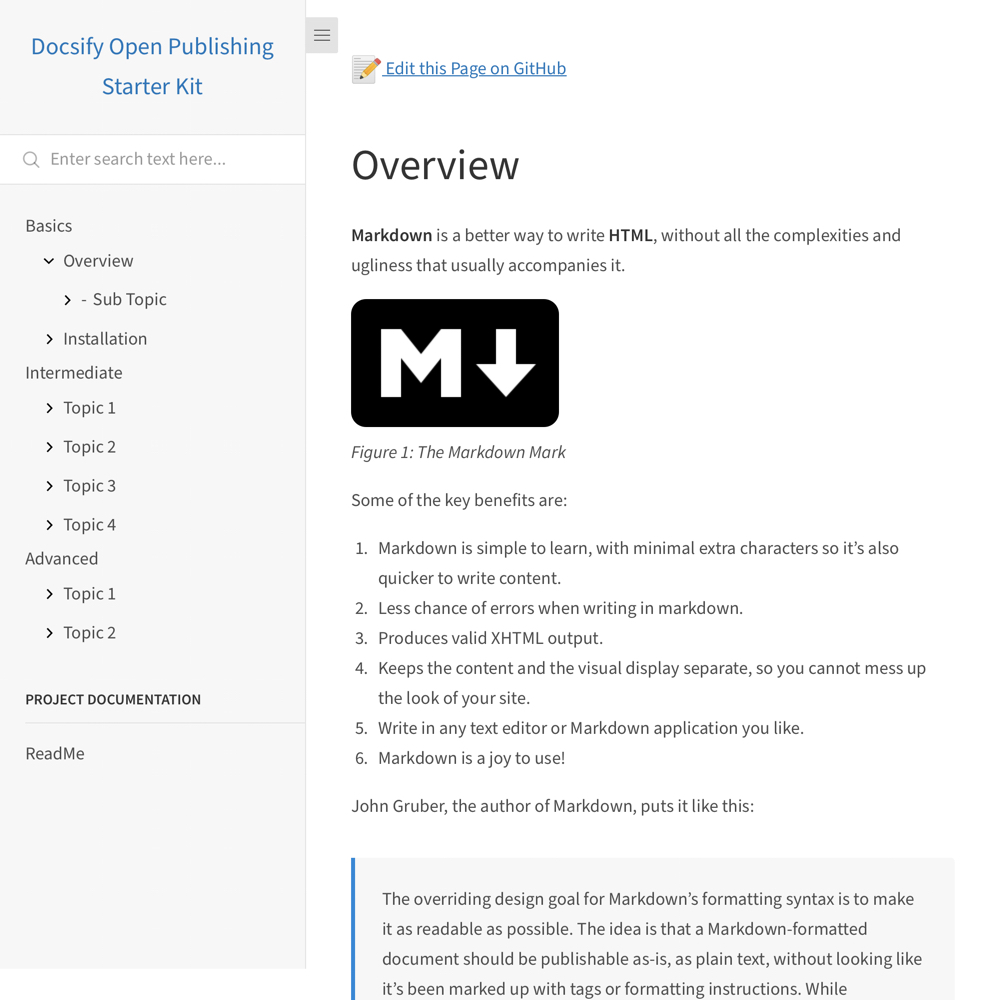
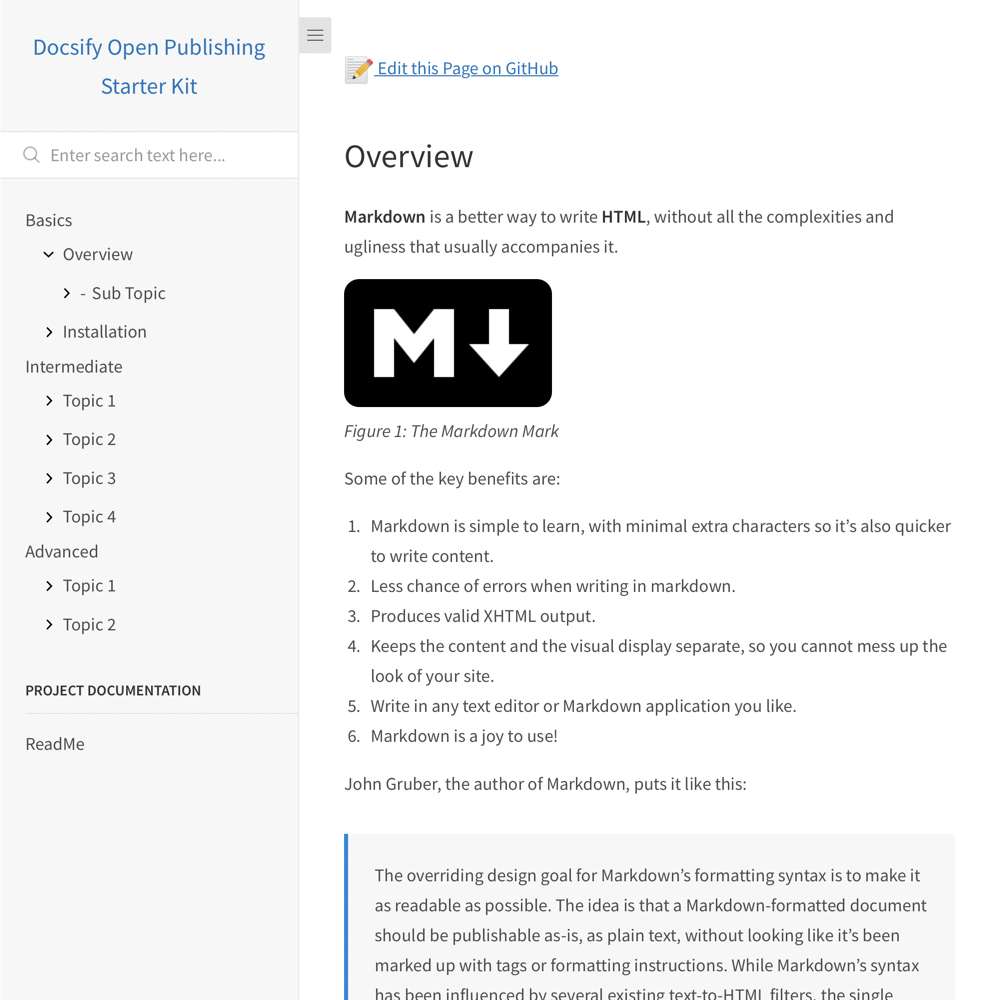
Style and source GitHub repo link updates.

diff --git a/docs/assets/css/theme-custom.css b/docs/assets/css/theme-custom.css
@@ -1,6 +1,18 @@
 :root {
     --base-font-family: "Source Sans Pro","Helvetica Neue",Arial,sans-serif;
-    --base-font-size                                  : 18px;
+    --base-font-size: 1.1rem;
+    --heading-h1-font-size: 1.85rem;
+    --heading-h2-font-size: 1.6rem;
+    --heading-h3-font-size: 1.4rem;
+    --heading-h4-font-size: 1.3rem;
+    --heading-h5-font-size: 1.2rem;
+    --heading-h6-font-size: 1.1rem;
+    --heading-h1-font-weight: 400;
+    --heading-h2-font-weight: 400;
+    --heading-h3-font-weight: 400;
+    --heading-h4-font-weight: 400;
+    --heading-h5-font-weight: 400;
+    --heading-h6-font-weight: 400;
     --link-color                                      : #0A75BD;
     --sidebar-name-color                              : #0A75BD;
     --sidebar-nav-link-color--active                  : #4D4D4D;

diff --git a/docs/index.html b/docs/index.html
@@ -63,7 +63,7 @@
                 .replace('raw.githubusercontent.com', 'github.com')
                 .replace(/\/master/, '/blob/master')
             } else {
-              url = 'https://github.com/paulhibbitts/test-docsify-open-publishing-starter-kit/tree/master/docs/' + vm.route.file
+              url = 'https://github.com/hibbitts-design/docsify-open-publishing-starter-kit/tree/master/docs/' + vm.route.file
             }
             var editHtml = '[:memo: Edit this Page on GitHub](' + url + ')\n'
 

diff --git a/README.md b/README.md
@@ -19,15 +19,10 @@ _Figure 1. Docsify Open Publishing Starter Kit. Explore a demo at [hibbitts-desi
 
 **Installation Steps**  
 
-1. Fork this repository
-2. Go to **Settings** of your repository, scroll down to **GitHub Pages** and chose **master branch/docs folder** (see more details in the [Docsify documentation](https://docsify.now.sh/deploy?id=gitlab-pages))
+1. Tap **Use this template** on the source repository (upper-right green button)
+2. Choose the name for your new repository to contain the copied site files and then tap **Create repository from template**
+2. Go to **Settings** of your newly created repository, scroll down to **GitHub Pages** and chose **master branch/docs folder** (see more details in the [Docsify documentation](https://docsify.js.org/#/deploy?id=github-pages))
 3. And you're done! (view your new site using the provided URL right below your **GitHub Pages** section - it can take up to 20 minutes for your site to be initially available)
-
-Want to delete the fork dependency of your newly created repository?
-
-1. Select the + sign in the top right corner, and choose **Import repository**
-2. Import your forked repository (the new repository won't have the fork dependency)
-3. Delete the original forked repository via the repository **settings**.
 
 📝 "Edit the Page on GitHub" Link Setup
 ---
